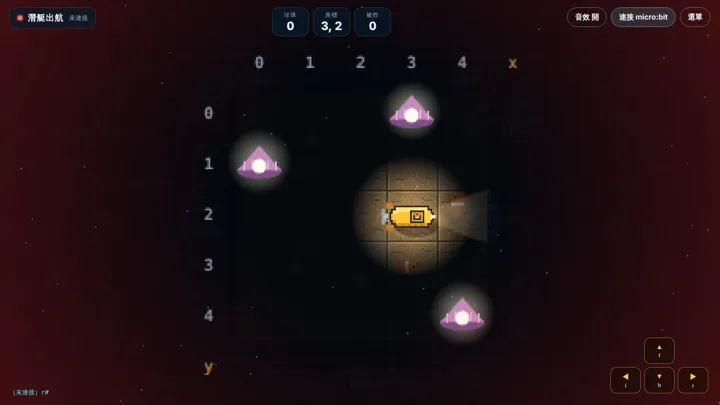
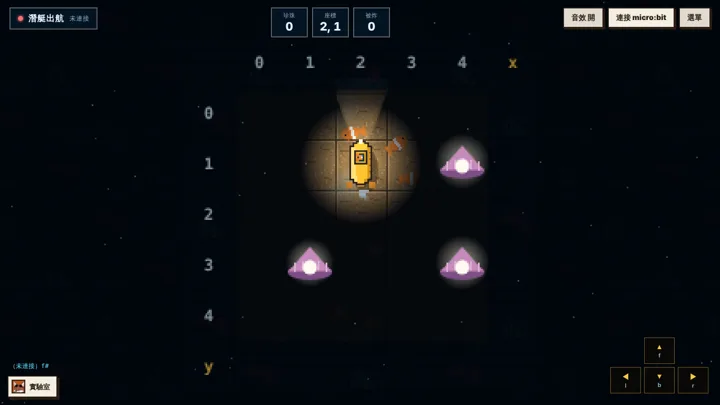
潛艇出航：網頁不再放水雷，改由 micro:bit 撞到時送 boom#
學生自己在選單輸入水雷位置，網頁就知道水雷在哪，遊戲失去意義。
- 拿掉選單的水雷格子、網頁上的水雷影子和泛紅警告
- 收到 micro:bit 的 boom# 才爆炸，潛艇回到 (0, 0)
- 沒接 micro:bit 時按 X 鍵可以假裝撞到
- 更新截圖、README、首頁說明

Claude-Session: https://claude.ai/code/session_01WHvvTz7jhRKRMu8DX4szS7

diff --git a/cockpit.js b/cockpit.js
@@ -96,23 +96,18 @@ const S = {
   mode: null, running: false, score: 0, hits: 0, left: 60, timer: 0, sound: true,
   gx: START[0], gy: START[1], face: 0,
   x: START[0] + 1.5, y: START[1] + 1.5, ang: FACE_ANG[0], bump: 0, bumpDir: [0, 0], shake: 0,
-  boom: 0, boomPhase: 0, flash: 0, pendingArrive: null, mines: [[4, 4]], pearls: [], fish: [], cracks: [], fade: 0,
+  boom: 0, boomPhase: 0, flash: 0, pendingArrive: null, pearls: [], fish: [], cracks: [], fade: 0,
 };
 let MAP = [];
 function buildMap() {
   MAP = [];
   for (let y = 0; y < MW; y++) { const row = []; for (let x = 0; x < MW; x++) row.push(x === 0 || y === 0 || x === MW - 1 || y === MW - 1 ? 1 + ((x * 7 + y * 13) % 4) : 0); MAP.push(row); }
 }
-const isMine = (x, y) => S.mines.some(([a, b]) => a === x && b === y);
-function loadMines() {
-  try { const m = JSON.parse(localStorage.getItem("cockpit.mines") || "null"); if (Array.isArray(m)) S.mines = m.filter((p) => Array.isArray(p) && p.length === 2).slice(0, 6); } catch (e) {}
-}
-function saveMines() { try { localStorage.setItem("cockpit.mines", JSON.stringify(S.mines)); } catch (e) {} }
 
 function placePearl() {
   const free = [];
   for (let y = 0; y < N; y++) for (let x = 0; x < N; x++) {
-    if (isMine(x, y) || (x === S.gx && y === S.gy) || S.pearls.some((p) => p.gx === x && p.gy === y)) continue;
+    if ((x === S.gx && y === S.gy) || S.pearls.some((p) => p.gx === x && p.gy === y)) continue;
     free.push([x, y, Math.abs(x - S.gx) + Math.abs(y - S.gy)]);
   }
   if (!free.length) return;
@@ -135,7 +130,7 @@ async function connect() {
     device.addEventListener("gattserverdisconnected", () => { rxChar = null; setStatus("off"); log("已中斷連接", "e"); });
     const svc = await nusService(device);
     const ch = await nusChars(svc); rxChar = ch.rx;
-    try { await ch.tx.startNotifications(); } catch (e) {}
+    try { await ch.tx.startNotifications(); ch.tx.addEventListener("characteristicvaluechanged", (e) => receive(new TextDecoder().decode(e.target.value))); } catch (e) {}
     setStatus("on", device.name); log(`已連接 ${device.name || "micro:bit"}`);
     toast("連接成功！micro:bit 按重設鈕，潛艇回到 (2, 2)");
   } catch (err) { if (!err || err.name !== "NotFoundError") log(`連接失敗：${(err && err.message) || err}`, "e"); setStatus("off"); }
@@ -197,7 +192,19 @@ function arrive() {
   S.pendingArrive = null;
   const p = S.pearls.findIndex((q) => q.gx === S.gx && q.gy === S.gy);
   if (p >= 0 && S.running) { S.pearls.splice(p, 1); S.score++; sfx.pearl(); toast("拿到珍珠！"); placePearl(); hud(); }
-  if (isMine(S.gx, S.gy)) explode();
+}
+// micro:bit 撞到水雷時會送 boom#，網頁跟著爆炸（水雷只在 micro:bit 上）
+let rxBuf = "";
+function receive(text) {
+  rxBuf += text;
+  let i;
+  while ((i = rxBuf.search(/[#\n]/)) >= 0) {
+    const w = rxBuf.slice(0, i).trim(); rxBuf = rxBuf.slice(i + 1);
+    if (!w) continue;
+    log(`收到 ${w}#`);
+    if (w.toLowerCase() === "boom" && !S.boom) explode();
+  }
+  if (rxBuf.length > 64) rxBuf = "";
 }
 function explode() {
   S.boom = performance.now(); S.hits++; S.shake = 1; S.flash = 1; sfx.boom(); hud();
@@ -230,7 +237,7 @@ function finish() {
   $("endText").textContent = S.hits ? `被水雷炸到 ${S.hits} 次。下次多看 micro:bit 的海圖！` : "一次都沒有被炸到，太厲害了！";
   $("endOv").hidden = false;
 }
-function openMenu() { S.running = false; clearInterval(S.timer); $("endOv").hidden = true; $("menu").hidden = false; drawGrid(); }
+function openMenu() { S.running = false; clearInterval(S.timer); $("endOv").hidden = true; $("menu").hidden = false; }
 function hud() {
   $("score").textContent = S.score; $("time").textContent = S.left; $("hits").textContent = S.hits;
   $("timeBox").classList.toggle("warn", S.left <= 10);
@@ -238,21 +245,6 @@ function hud() {
 }
 let toastT = 0;
 function toast(t) { const el = $("toast"); el.textContent = t; el.classList.add("show"); clearTimeout(toastT); toastT = setTimeout(() => el.classList.remove("show"), 1500); }
-function drawGrid() {
-  const g = $("grid5"); g.innerHTML = "";
-  for (let y = 0; y < N; y++) for (let x = 0; x < N; x++) {
-    const b = document.createElement("button"), st = x === START[0] && y === START[1], hm = x === HOME[0] && y === HOME[1];
-    b.className = (isMine(x, y) ? "mine" : "") + (st ? " start" : "") + (hm ? " home" : "");
-    b.textContent = `${x},${y}`; b.title = `(${x}, ${y})`; b.disabled = st || hm;
-    b.onclick = () => {
-      if (isMine(x, y)) S.mines = S.mines.filter(([a, c]) => !(a === x && c === y));
-      else if (S.mines.length < 6) S.mines.push([x, y]); else toast("最多 6 顆水雷");
-      saveMines(); drawGrid();
-    };
-    g.appendChild(b);
-  }
-}
-
 /* ---------------- 俯視角繪圖（像素風） ---------------- */
 const cv = $("view"), ctx = cv.getContext("2d");
 const T = 32, MAPPX = MW * T;
@@ -270,7 +262,6 @@ function resize() {
 }
 const wx2s = (x) => OX + x * T, wy2s = (y) => OY + y * T;
 function caust(x, y, t) { return (Math.sin(x * 5.1 + t * 1.7) + Math.sin(y * 4.3 - t * 1.3) + Math.sin((x + y) * 3.7 + t)) / 3; }
-const mv = {};
 const snow = Array.from({ length: 50 }, () => ({ x: Math.random(), y: Math.random(), z: rnd(0.3, 1) }));
 const bubbles = [], debris = [];
 
@@ -289,22 +280,6 @@ function drawSub(cx, cy, ang, t) {
   R(1, -3, 2, 2, "#e9792e"); R(4, -3, 2, 2, "#e9792e"); R(2, -1, 3, 2, "#e9792e"); R(3, 0, 1, 1, "#fff4e6");
   R(12, -1, 3, 2, "#fffbe0");
   for (let i = -8; i <= 8; i += 4) R(i - 2, 5, 1, 1, "#9b6a14");
-  ctx.restore();
-}
-function drawMine(cx, cy, a, ghost, t, blink) {
-  ctx.save(); ctx.globalAlpha = a;
-  if (ghost) {
-    // 隱約的輪廓：暗暗的影子加上斷續的邊和刺
-    ctx.fillStyle = "rgba(0,0,0,.5)"; ctx.beginPath(); ctx.arc(Math.round(cx), Math.round(cy), 9, 0, 7); ctx.fill();
-    ctx.fillStyle = "rgba(150,195,220,.75)";
-    for (let i = 0; i < 20; i++) { const an = (i / 20) * 6.28; if ((i + Math.floor(t * 5)) % 4 === 0) continue; ctx.fillRect(Math.round(cx + Math.cos(an) * 10), Math.round(cy + Math.sin(an) * 10), 1, 1); }
-    for (let i = 0; i < 8; i++) { const an = (i / 8) * 6.28 + 0.2; ctx.fillRect(Math.round(cx + Math.cos(an) * 13), Math.round(cy + Math.sin(an) * 13), 2, 2); }
-  } else {
-    ctx.fillStyle = "rgba(0,0,0,.35)"; ctx.beginPath(); ctx.ellipse(cx + 3, cy + 5, 11, 7, 0, 0, 7); ctx.fill();
-    ctx.drawImage(TEX.mine.c, 0, 0, 32, 32, Math.round(cx - 16), Math.round(cy - 16), 32, 32);
-    if (!blink) { ctx.fillStyle = "#5a1410"; ctx.fillRect(Math.round(cx - 1), Math.round(cy - 12), 3, 3); }
-    else { ctx.globalCompositeOperation = "lighter"; const g = ctx.createRadialGradient(cx, cy - 11, 0, cx, cy - 11, 9); g.addColorStop(0, "rgba(255,60,40,.9)"); g.addColorStop(1, "rgba(255,60,40,0)"); ctx.fillStyle = g; ctx.fillRect(cx - 9, cy - 20, 18, 18); }
-  }
   ctx.restore();
 }
 function render(now) {
@@ -394,16 +369,6 @@ function render(now) {
   ctx.save(); ctx.globalCompositeOperation = "lighter";
   const g4 = ctx.createRadialGradient(sx, sy, 0, sx, sy, T * 1.8); g4.addColorStop(0, "rgba(255,240,180,.08)"); g4.addColorStop(1, "rgba(255,240,180,0)");
   ctx.fillStyle = g4; ctx.beginPath(); ctx.moveTo(sx, sy); ctx.arc(sx, sy, T * 1.8, S.ang - 0.3, S.ang + 0.3); ctx.closePath(); ctx.fill(); ctx.restore();
-  // 水雷：兩格內模糊、一格內清楚
-  for (const [gx, gy] of S.mines) {
-    const key = gx + "," + gy, d = Math.hypot(gx - S.gx, gy - S.gy), target = d <= 1.01 ? 1 : 0;
-    mv[key] = (mv[key] ?? 0) + (target - (mv[key] ?? 0)) * 0.12;
-    if (mv[key] < 0.02) continue;
-    // 只在隔壁格時，糊糊的、幾乎看不到
-    ctx.save(); ctx.filter = "blur(2px)";
-    drawMine(wx2s(gx + 1.5), wy2s(gy + 1.5) + Math.sin(t * 1.3 + gx) * 1.2, mv[key] * (0.3 + 0.06 * Math.sin(t * 2.3 + gx)), false, t, false);
-    ctx.restore();
-  }
   // 珍珠（自己發光，在黑暗上面）
   for (const p of S.pearls) {
     const cx = wx2s(p.gx + 1.5), cy = wy2s(p.gy + 1.5), a = Math.min(1, (now - p.born) / 400);
@@ -431,14 +396,6 @@ function render(now) {
     ctx.globalAlpha = 1;
   }
   ctx.setTransform(1, 0, 0, 1, 0, 0);
-  // 危險：水雷在隔壁格
-  const near = S.mines.some(([a, b]) => Math.abs(a - S.gx) + Math.abs(b - S.gy) === 1);
-  if (near && !S.boom) {
-    const a = 0.2 + 0.12 * Math.sin(t * 8);
-    const rg = ctx.createRadialGradient(W / 2, H / 2, H * 0.3, W / 2, H / 2, W * 0.6); rg.addColorStop(0, "rgba(255,40,30,0)"); rg.addColorStop(1, `rgba(255,40,30,${a})`);
-    ctx.fillStyle = rg; ctx.fillRect(0, 0, W, H);
-    if (now - (render.lastPing || 0) > 600) { render.lastPing = now; sfx.ping(); }
-  }
   if (S.flash > 0) { ctx.fillStyle = `rgba(255,${180 + 60 * S.flash},120,${S.flash * 0.8})`; ctx.fillRect(0, 0, W, H); }
   if (S.boom) { const k = clamp((now - S.boom - 800) / 800, 0, 1); ctx.fillStyle = `rgba(0,0,0,${k})`; ctx.fillRect(0, 0, W, H); }
   if (S.fade > 0) { ctx.fillStyle = `rgba(0,0,0,${S.fade})`; ctx.fillRect(0, 0, W, H); }
@@ -478,8 +435,8 @@ function frame(now) {
   requestAnimationFrame(frame);
 }
 function init() {
-  buildTextures(); buildMap(); loadMines(); resize(); addEventListener("resize", resize);
-  setStatus("off"); drawGrid();
+  buildTextures(); buildMap(); resize(); addEventListener("resize", resize);
+  setStatus("off");
   $("connectBtn").onclick = () => (device && device.gatt.connected ? device.gatt.disconnect() : connect());
   $("soundBtn").onclick = () => { S.sound = !S.sound; $("soundBtn").textContent = S.sound ? "音效 開" : "音效 關"; };
   $("menuBtn").onclick = openMenu; $("backBtn").onclick = openMenu; $("againBtn").onclick = () => start(S.mode);
@@ -490,10 +447,11 @@ function init() {
     const c = KEY[e.key] || KEY[e.key.toLowerCase && e.key.toLowerCase()];
     if (c) { e.preventDefault(); if (!e.repeat) command(c); }
     if (e.key === "Escape") openMenu();
+    if ((e.key === "x" || e.key === "X") && !rxChar && $("menu").hidden && !S.boom) explode();
   });
   hud(); requestAnimationFrame(frame);
 }
-window.COCKPIT = { S, command, start };
+window.COCKPIT = { S, command, start, receive };
 if (document.readyState === "loading") document.addEventListener("DOMContentLoaded", init); else init();
 
 // micro:bit 的 UART 和 Nordic 標準相反：6e400002 是 micro:bit 送出（indicate），6e400003 才是寫入。

diff --git a/cockpit.html b/cockpit.html
@@ -64,6 +64,10 @@
     .grid5 button.start { background: #ff3b2f; box-shadow: 0 0 10px #ff3b2f; color: #fff; }
     .grid5 button.home { outline: 2px dashed rgba(255,255,255,.5); outline-offset: -4px; }
     .grid5 button:disabled { cursor: default; }
+    .how { display: grid; gap: 8px; }
+    .how div { background: rgba(255,255,255,.06); border-radius: 10px; padding: 10px 12px; font-size: 13px; line-height: 1.6; }
+    .how b { display: block; color: var(--accent, #ffc94a); font-size: 12px; }
+    .how code { background: #000; padding: 1px 6px; border-radius: 4px; color: #ff9d2e; }
     .gridnote { font-size: 12px; color: var(--muted); line-height: 1.7; margin-top: 8px; }
     .modes { display: grid; gap: 12px; }
     .mode { text-align: left; border: 1px solid var(--line); background: rgba(255,255,255,.04); color: var(--ink); border-radius: 16px; padding: 14px 16px; cursor: pointer; font-family: inherit; }
@@ -113,18 +117,22 @@
   <div class="overlay" id="menu">
     <div class="card">
       <h1>潛艇出航</h1>
-      <p class="sub">海底一片漆黑，電腦只照得到潛艇自己這一格；micro:bit 的 LED 才是海圖。水雷在電腦上幾乎看不到，只有在隔壁格時會有一團糊糊的影子，所以一定要看著 micro:bit 開。</p>
+      <p class="sub">海底一片漆黑，網頁只照得到潛艇附近；水雷只畫在 micro:bit 的 LED 上，網頁完全看不到，所以一定要看著 micro:bit 開。</p>
       <div class="cols">
         <div>
-          <div class="grid5" id="grid5"></div>
-          <div class="gridnote">點格子放水雷（最多 6 顆），要和 micro:bit 程式裡的水雷位置一樣。<br>亮紅色：起點 (2, 2)　虛線：被炸後回到 (0, 0)</div>
+          <div class="how">
+            <div><b>網頁看得到</b>潛艇、發光珍珠、海底</div>
+            <div><b>micro:bit 看得到</b>潛艇（亮）、水雷（暗）</div>
+            <div><b>撞到水雷</b>micro:bit 送出 <code>boom#</code>，網頁跟著爆炸，潛艇回到 (0, 0)</div>
+          </div>
+          <div class="gridnote">起點 (2, 2)。連上之後按 micro:bit 背面的重設鈕，兩邊才會從同一格出發。<br>沒有 micro:bit 試玩時，按 X 鍵可以假裝撞到水雷。</div>
         </div>
         <div>
           <div class="modes">
-            <button class="mode" id="modeFree"><b>自由巡航</b><p>沒有時間限制。海底有 3 顆發光珍珠，只有電腦看得到；水雷只有 micro:bit 看得到。</p></button>
+            <button class="mode" id="modeFree"><b>自由巡航</b><p>沒有時間限制。海底有 3 顆發光珍珠，只有網頁看得到；水雷只有 micro:bit 看得到。</p></button>
             <button class="mode" id="modeTime"><b>限時尋寶 60 秒</b><p>60 秒內收集最多珍珠。被水雷炸到會回到 (0, 0)，浪費時間！</p></button>
           </div>
-          <div class="keys">先按右上角「連接 micro:bit」（第五堂的程式）。<br>方向鍵或下方按鈕：送出 f　b　l　r，和手機遙控一樣。<br>按一下走一格，和 LED 上的點一起動。</div>
+          <div class="keys">先按右上角「連接 micro:bit」（第五堂的程式）。<br>方向鍵或下方按鈕：送出 f　b　l　r，和潛艇遙控器一樣。<br>按一下走一格，和 LED 上的點一起動。</div>
         </div>
       </div>
     </div>

diff --git a/index.html b/index.html
@@ -248,7 +248,7 @@
             <div class="body">
               <span class="lessons mono">第五堂</span>
               <h3>潛艇出航</h3>
-              <p>海底一片漆黑，電腦只照得到潛艇這一格。看著 micro:bit 的 LED 海圖避開水雷，去撿只有電腦看得到的珍珠。</p>
+              <p>海底一片漆黑，水雷只在 micro:bit 的 LED 上。看著 LED 海圖避開水雷，去撿只有網頁看得到的珍珠；撞到時 micro:bit 會告訴網頁。</p>
               <div class="chips"><span>電腦 → micro:bit</span><span>座標</span></div>
               <a class="btn mustard small" href="cockpit.html">開始潛航</a>
             </div>
@@ -378,7 +378,7 @@
               <li>不想改程式的話，把遙控器上的「放開按鈕自動停止」關掉。</li></ul></details>
             <details><summary>電腦和 micro:bit 的潛艇位置對不上（第五堂）</summary><ul>
               <li>連上之後按 micro:bit 背面的重設鈕，讓兩邊都從 (2, 2) 出發。</li>
-              <li>選單裡的水雷位置要和程式裡的一樣。</li></ul></details>
+              <li>撞到水雷時網頁沒反應：micro:bit 程式的「如果撞到」裡要有「寫入文字 boom#」。</li></ul></details>
           </div>
         </div>
       </div>

diff --git a/sw.js b/sw.js
@@ -1,5 +1,5 @@
 // 網路優先：上課時永遠拿到最新版；沒有網路時才用快取
-const CACHE_NAME = "kuding-lab-v4";
+const CACHE_NAME = "kuding-lab-v5";
 const ASSETS = ["./", "index.html", "kuding.css", "car.html", "style.css", "app.js", "manifest.json", "icon.svg", "assets/fox-head.webp"];
 
 self.addEventListener("install", (event) => {
